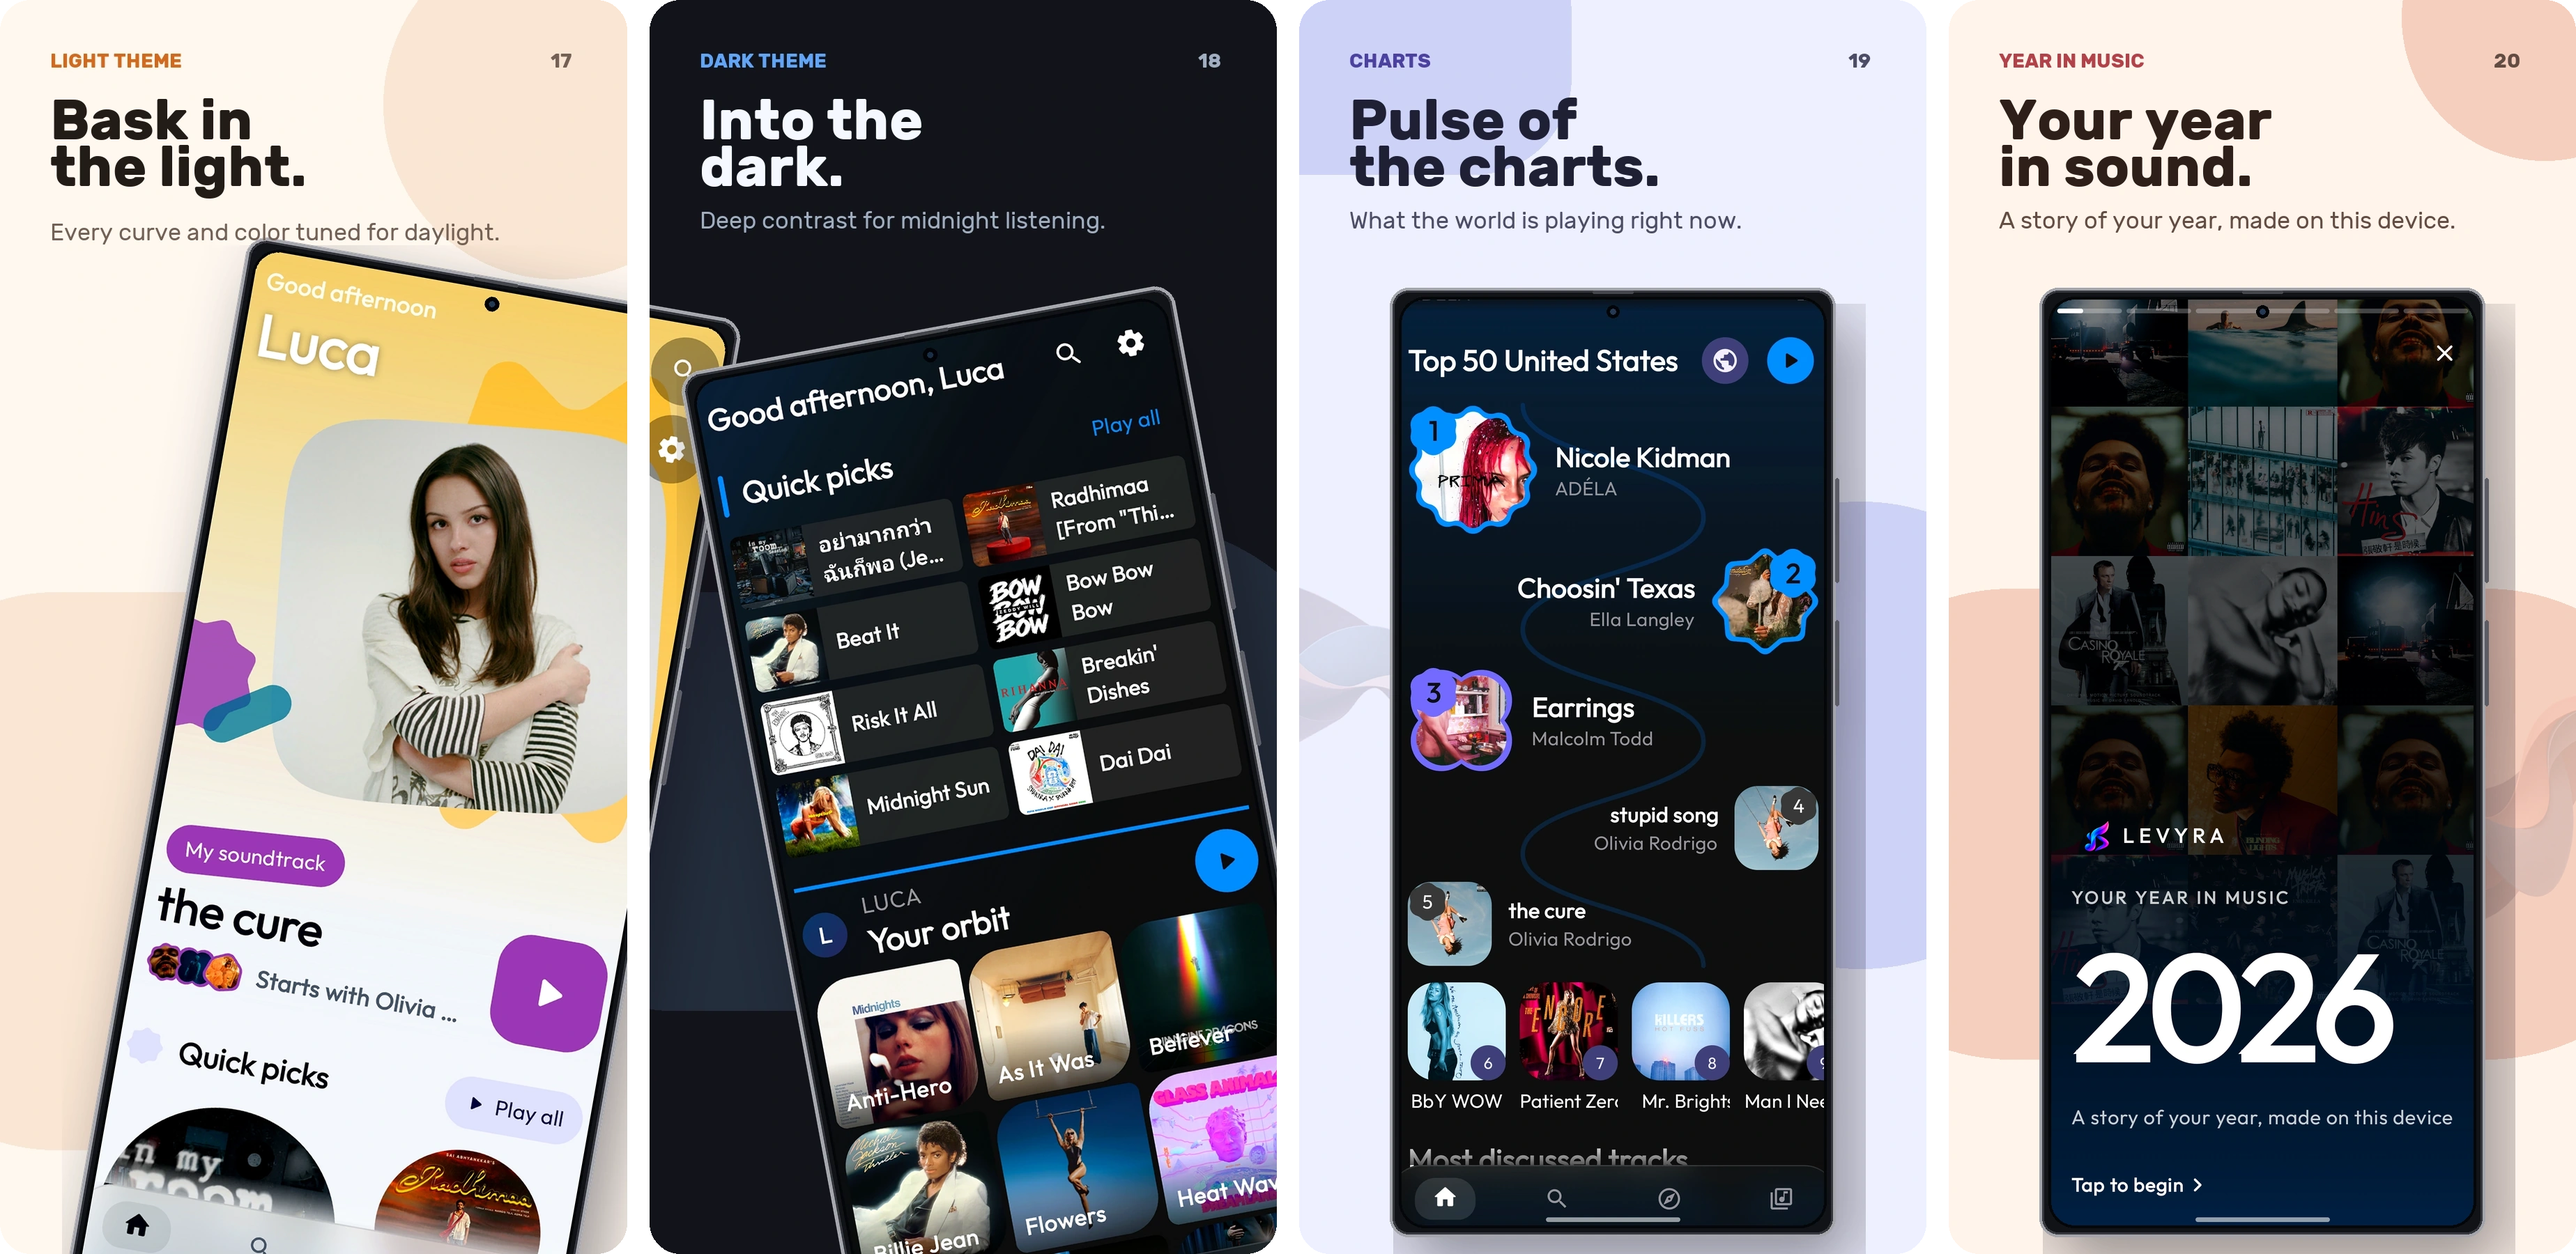
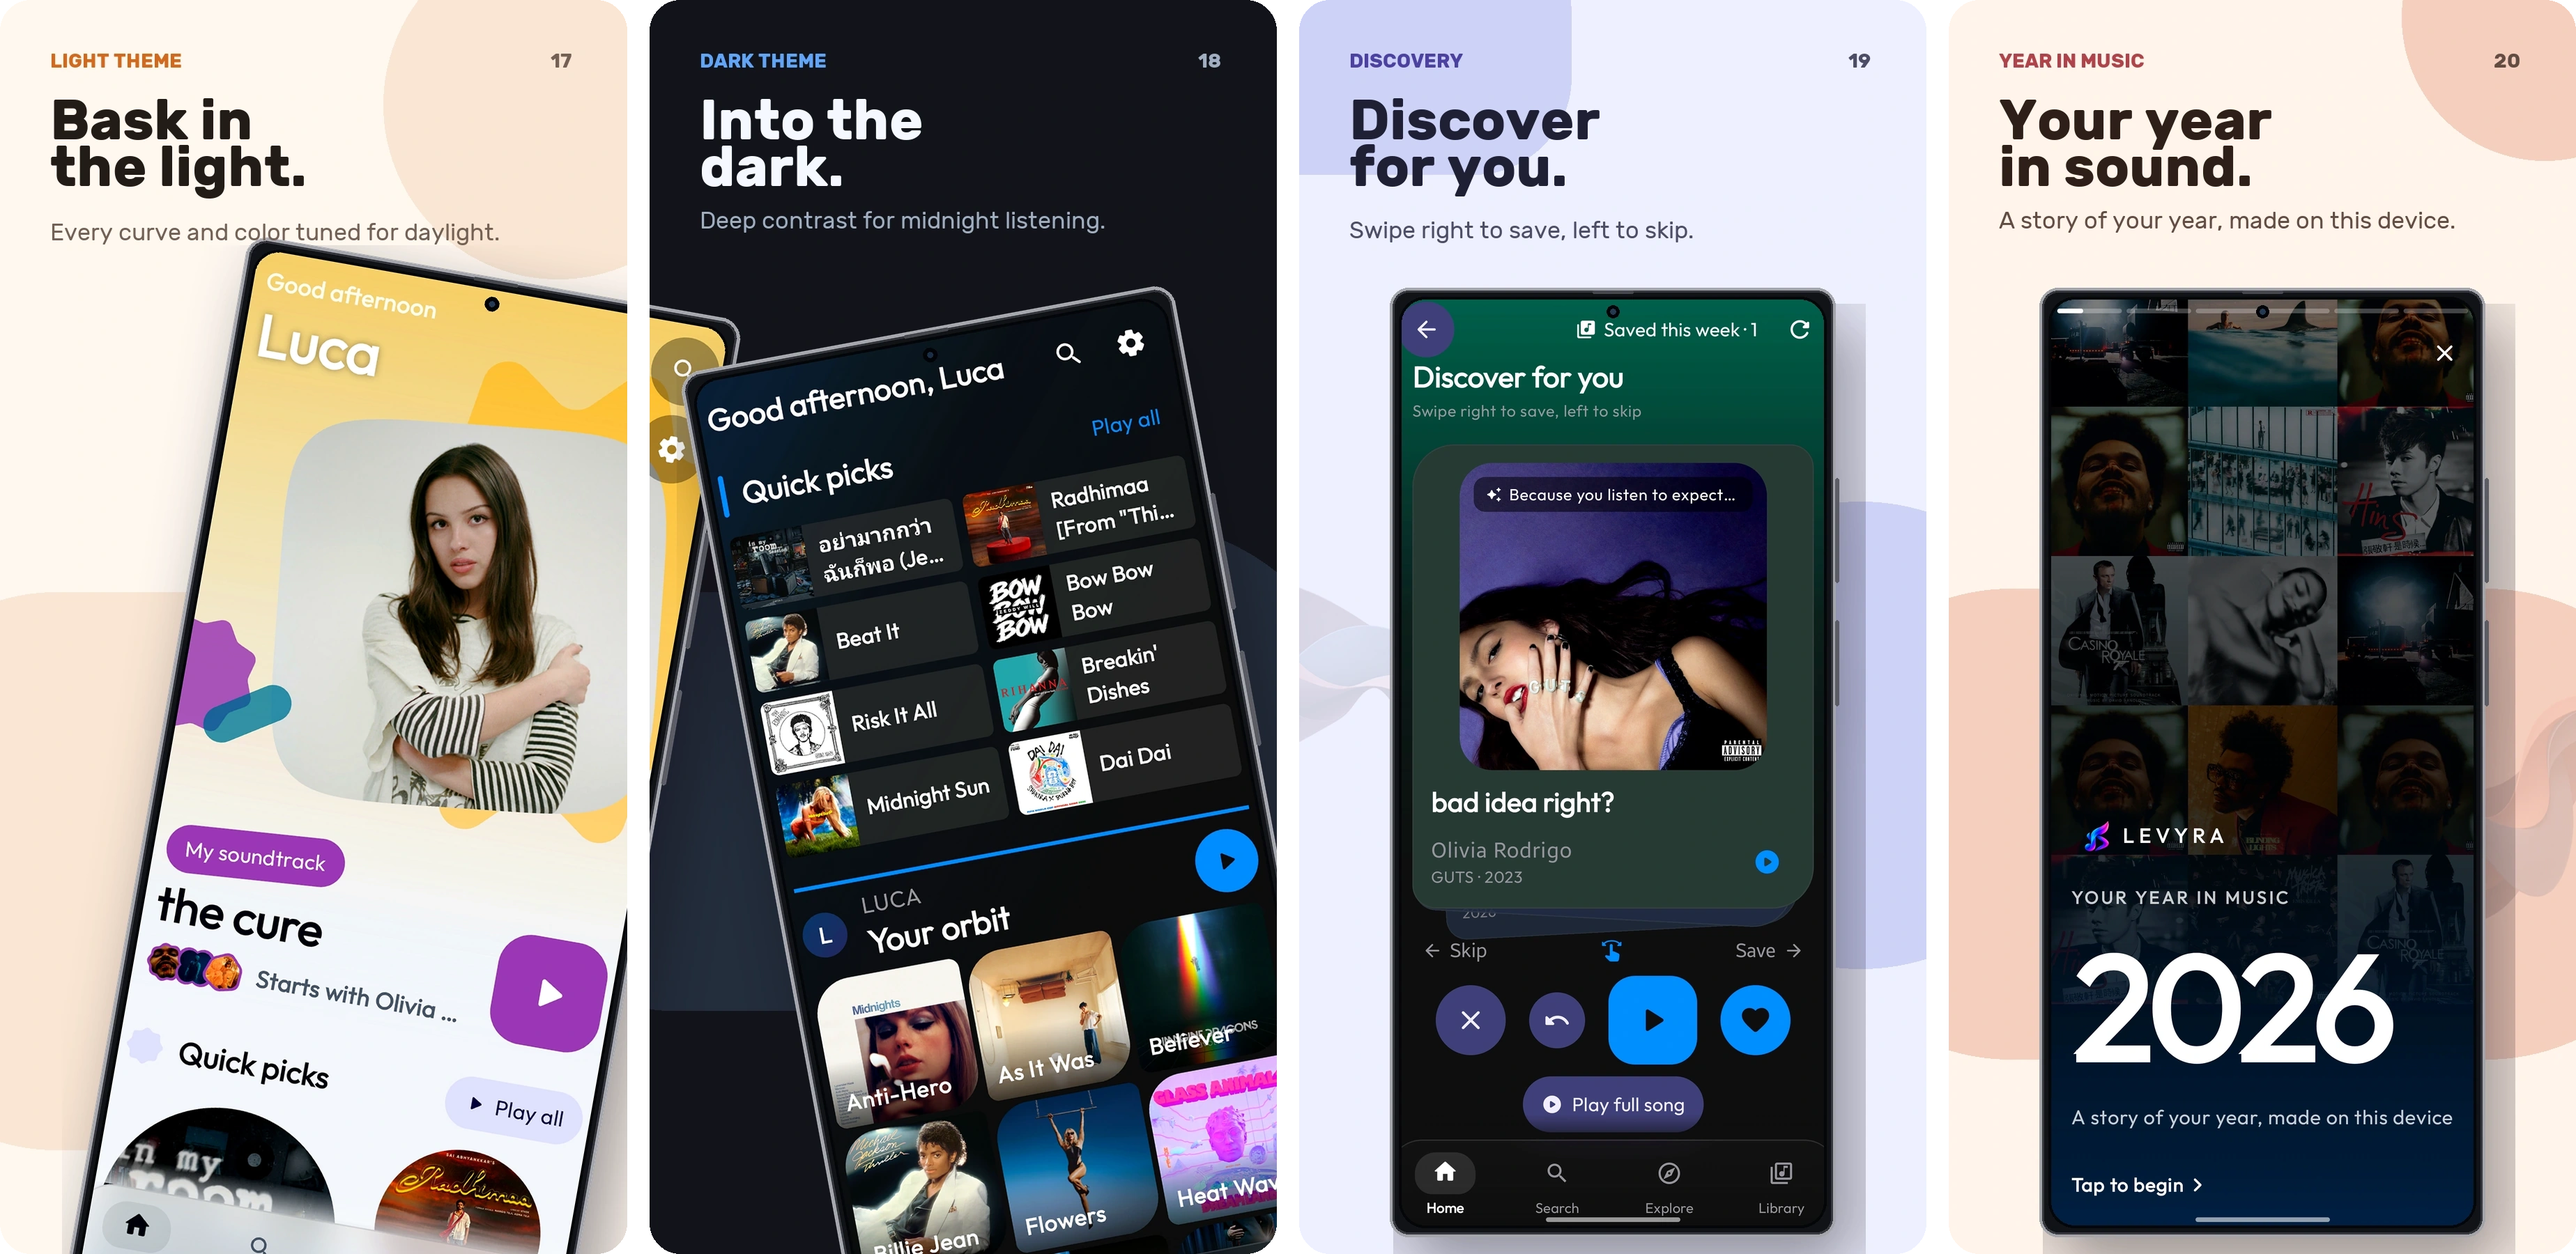
docs(readme): replace charts card with discover for you showcase

Changed region(s): [[0.529, 0.2178, 0.7156, 0.9644], [0.529, 0.0311, 0.6534, 0.1867], [0.6845, 0.9333, 0.7156, 0.9644]]

diff --git a/scripts/generate_showcase_assets.py b/scripts/generate_showcase_assets.py
@@ -601,7 +601,7 @@ README_CARD_SPECS = [
     ("16_listen_together", "LEVYRA JAM", "Listen\ntogether.", "One room. One queue. Everyone in.", "Screenshot_20261011_133434_LEVYRA.jpg"),
     ("17_daylight_expressive", "LIGHT THEME", "Bask in\nthe light.", "Every curve and color tuned for daylight.", "Screenshot_20261017_133945_LEVYRA.jpg"),
     ("18_midnight_obsidian", "DARK THEME", "Into the\ndark.", "Deep contrast for midnight listening.", "Screenshot_20261017_134057_LEVYRA.jpg"),
-    ("19_top_charts", "CHARTS", "Pulse of\nthe charts.", "What the world is playing right now.", "Screenshot_20261017_123908_LEVYRA.jpg"),
+    ("19_discover_for_you", "DISCOVERY", "Discover\nfor you.", "Swipe right to save, left to skip.", "Screenshot_20261024_130435_Levyra.jpg"),
     ("20_your_year_in_music", "YEAR IN MUSIC", "Your year\nin sound.", "A story of your year, made on this device.", "Screenshot_20261016_223757_LEVYRA.jpg"),
 ]
 

diff --git a/README.md b/README.md
@@ -123,7 +123,7 @@ Enhanced Audio is on by default and can be turned off in Audio Settings. Technic
 <br />
 <div><img src="docs/assets/showcase/editorial-cards/editorial-grid-row-04-spaced.webp" width="900" align="top" alt="Levyra showcase: settings, new releases, artists, and Jam" /></div>
 <br />
-<div><img src="docs/assets/showcase/editorial-cards/editorial-grid-row-05-spaced.webp?v=2" width="900" align="top" alt="Levyra showcase: light theme, dark theme, top charts, and Year in Music" /></div>
+<div><img src="docs/assets/showcase/editorial-cards/editorial-grid-row-05-spaced.webp?v=3" width="900" align="top" alt="Levyra showcase: light theme, dark theme, discovery, and Year in Music" /></div>
 <br />
 <p align="center"><b>Global skins · Choose your streaming layout</b><br>
 <sub>Want Spotify? Here's Spotify. &nbsp;·&nbsp; Want Apple Music? Here's Apple. &nbsp;·&nbsp; Want YouTube Music? Here it is.</sub></p>
